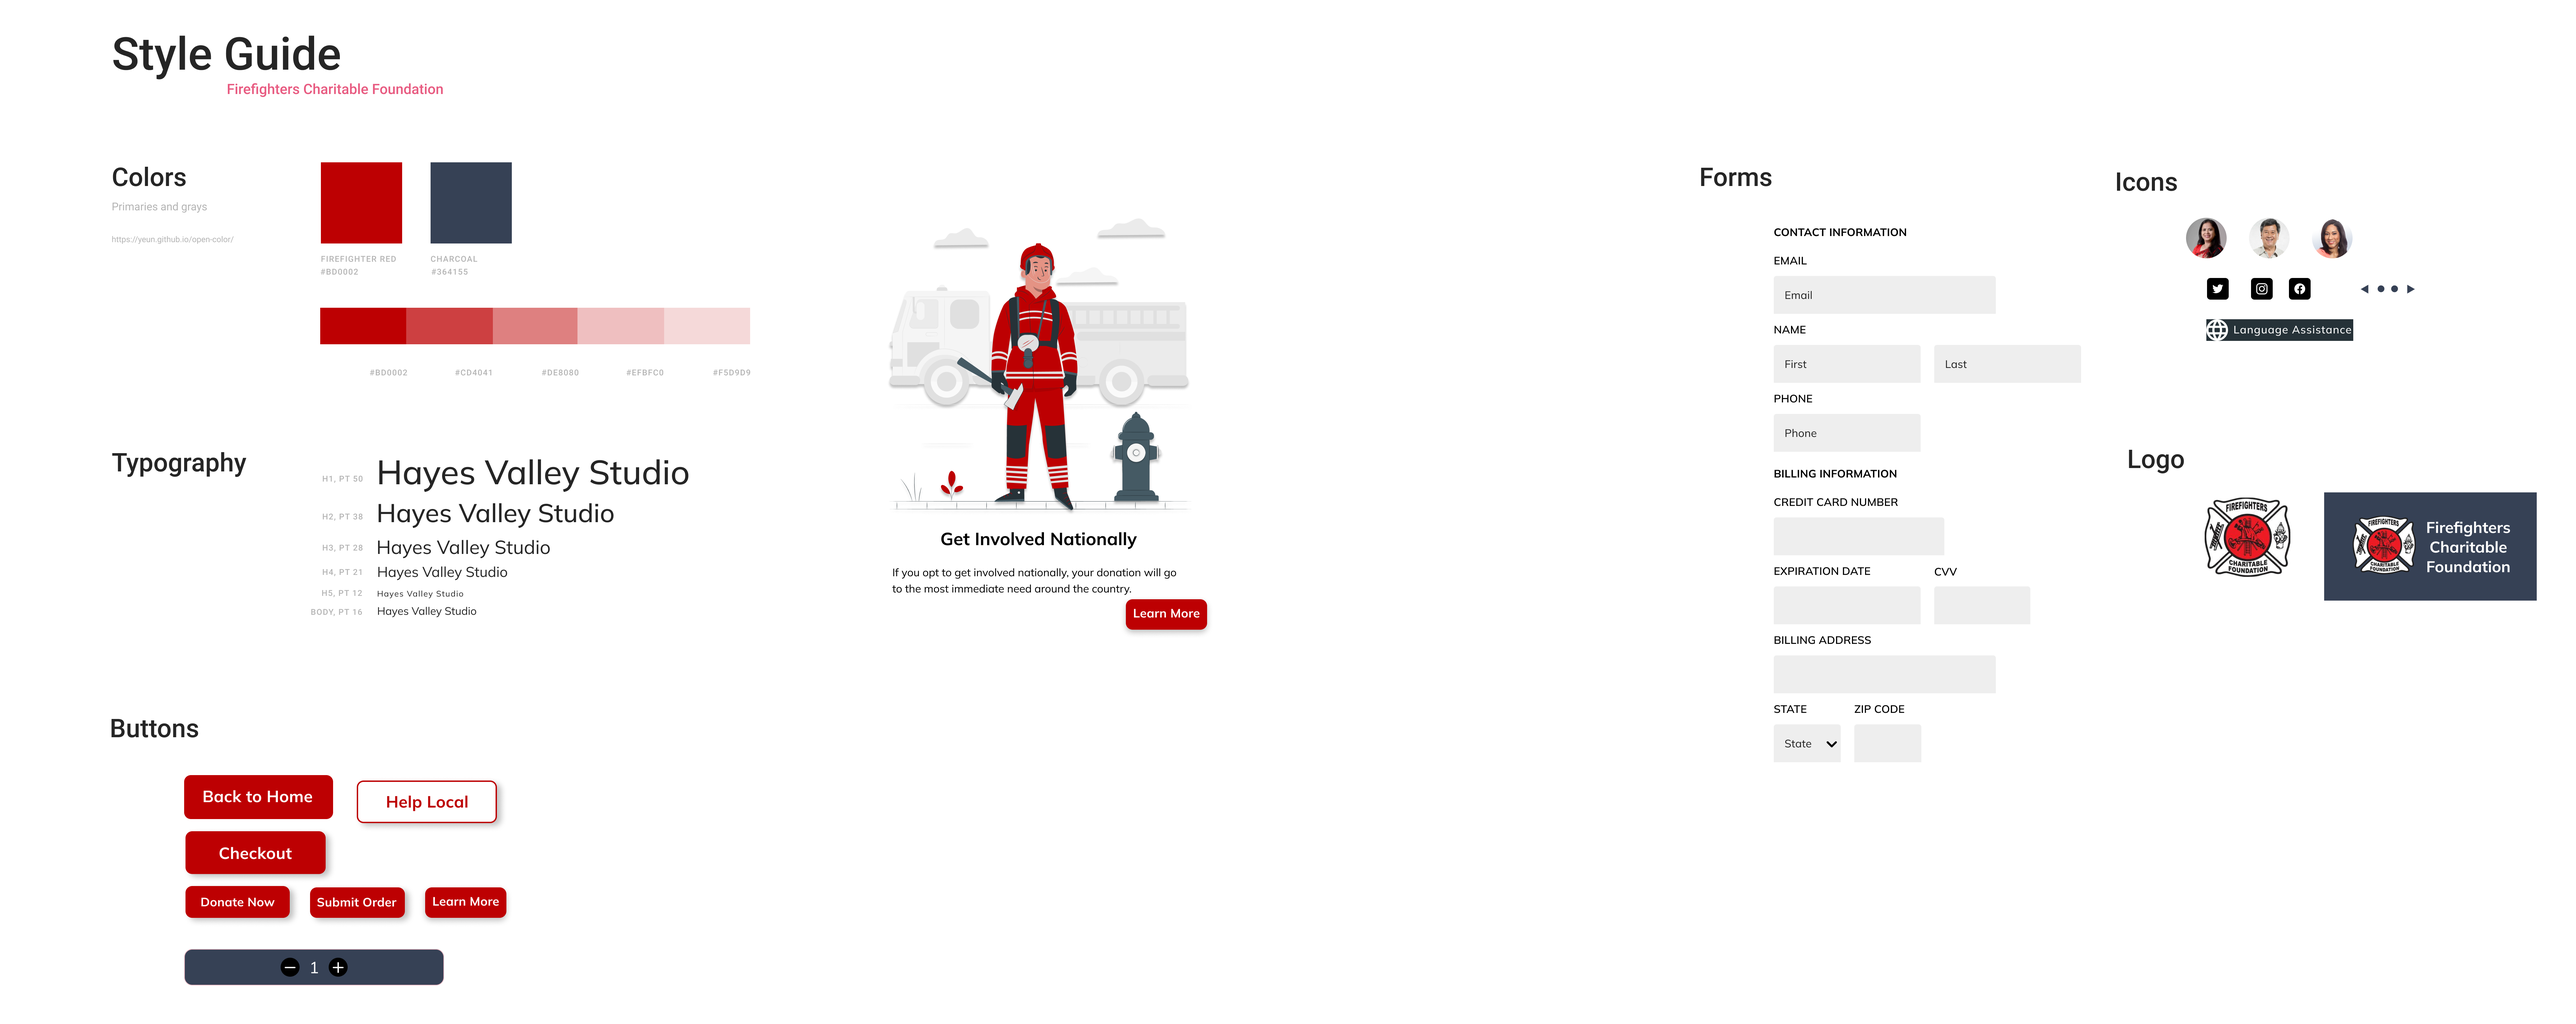
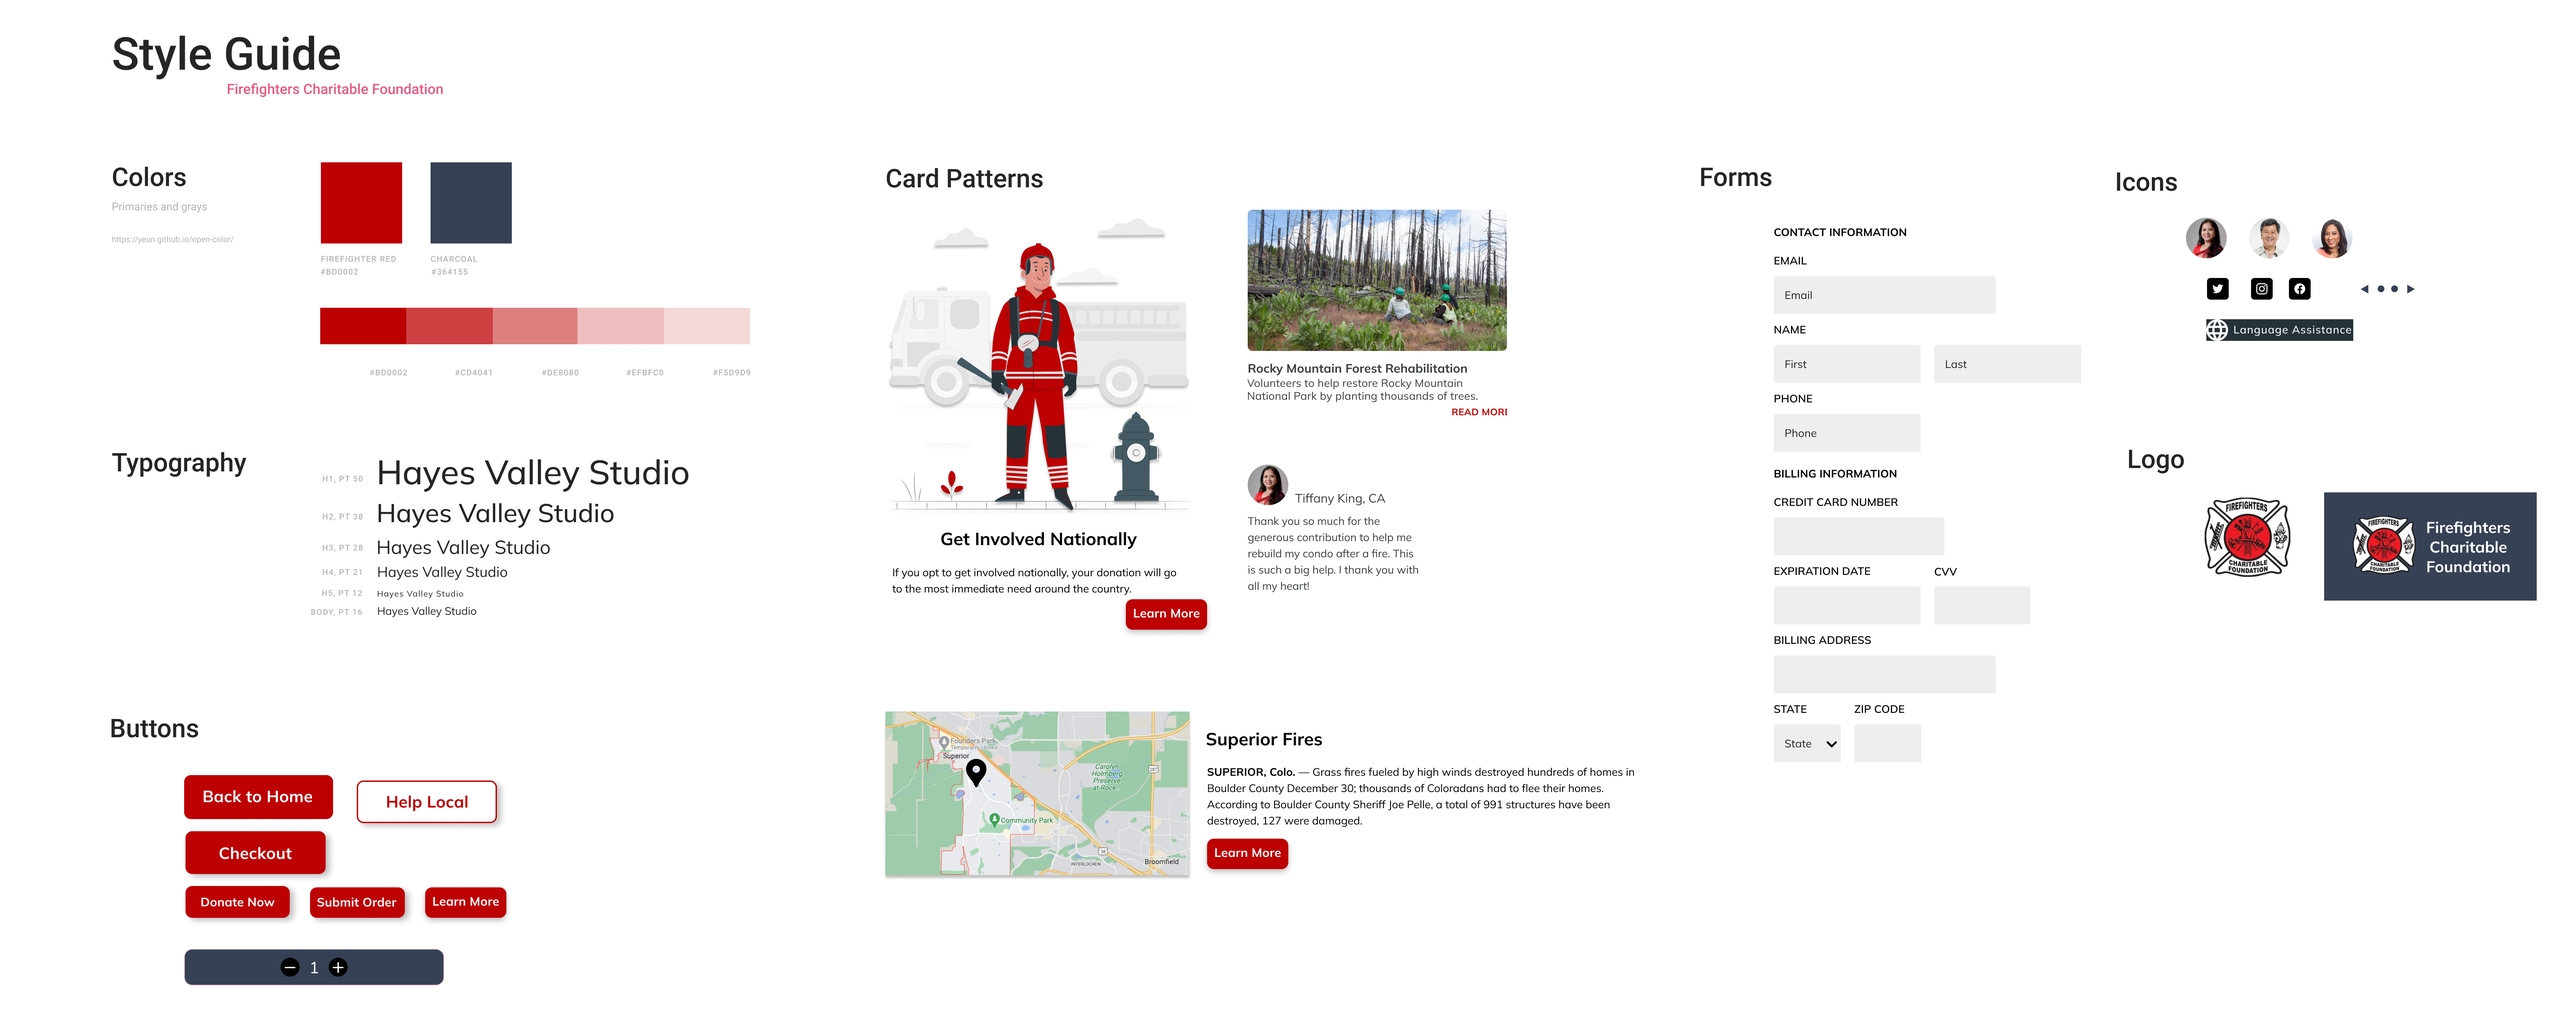
Completed HTML
Completed HTML with exception of photo scrolls

diff --git a/index.html b/index.html
@@ -5,7 +5,7 @@
     <title>UX/UI Homework 20</title>
     <link rel="stylesheet" href="https://cdn.jsdelivr.net/npm/bootstrap@4.6.1/dist/css/bootstrap.min.css"
         integrity="sha384-zCbKRCUGaJDkqS1kPbPd7TveP5iyJE0EjAuZQTgFLD2ylzuqKfdKlfG/eSrtxUkn" crossorigin="anonymous">
-    <link rel="stylesheet" href="css/style.css" </head>
+    <link rel="stylesheet" href="css/style.css"></head>
 
 <body>
     <!--Navigation Bar-->
@@ -175,33 +175,81 @@
         <div class="container-fluid #BFB1C4">
             <div class="row">
                 <div class="col">
+                    <h5>Information Architecturue</h5>
                     <h4>User Flow</h4>
                     <p>To better understand how we would construct the core experience for the Firefighter Charitable
-                        Foundation, I designed a user flow. <b>The user flow helped my team focus more on the experience and needs of
-                        the user and less so on the details that we would solidify later on.</b> It also allowed us
+                        Foundation, I designed a user flow. <b>The user flow helped my team focus more on the experience
+                            and needs of
+                            the user and less so on the details that we would solidify later on.</b> It also allowed us
                         to communicate the entries and exits more clearly so we would have a better understanding moving
-                        forward. For example, we identified that the only way to donate was to go through AmazonSmile, which
+                        forward. For example, we identified that the only way to donate was to go through AmazonSmile,
+                        which
                         took users away from the site.
                     </p>
                     <img src="./Images/FFCF - Team FIRE@2x (1).png" class="img-fluid" alt="userFlow">
                 </div>
             </div>
-            <div class= "row">
+            <div class="row">
                 <div class="col">
-                <h4>Card Sorting to Site Map</h4>  
-                <p>Unpopular opinion, I love to card sort. In card sorting, we found that the only way to digitally donate to the Firefighters Charitable Foundation was by leaving the website and going to AmazonSmile. In our iterated site map, we priortized keeping users on the wesbite and creating two ways to donate within the site itself.</p>  
+                    <h4>Card Sorting to Site Map</h4>
+                    <p>Unpopular opinion, I love to card sort. In card sorting, we found that the only way to digitally
+                        donate to the Firefighters Charitable Foundation was by leaving the website and going to
+                        AmazonSmile. In our iterated site map, we priortized keeping users on the wesbite and creating
+                        two ways to donate within the site itself.</p>
                 </div>
                 <marquee behavior="scroll" direction="left">
                     <img src="./Images/Card Sorting - 1.png" height="500px" width="450px" alt="cardSort">
                     <img src="./Images/FFCF Site Map.png" height="500px" width="450px" alt="siteMap">
-                 </marquee>
+                </marquee>
             </div>
         </div>
         <!--Design-->
         <div class="container-fluid">
             <div class="row>">
                 <div class="col">
-                    
+                    <h5>Design</h5>
+                    <h4>Style Guide</h4>
+                    <p>Heading into our style guide, we wanted to evoke feelings of dependability. We opted for a
+                        classic firefighter red and a charcoal color for our color palette to stick true to our
+                        firefighter roots.</p>
+
+                    <p>After some research, we decided to do a mix of illustrations and pictures to convey our story
+                        better and help the user engage with the material in a more constructive way.</p>
+                    <img src="./Images/Abigail - FFCF Style Guide (1).png" class="img-fluid" alt="styleGuide">
+                    <h4>Wireframes to Mid-Fidelity</h4>
+                    <p>One of our biggest challenges while wireframing and prototyping was taking a national
+                        organization giving users the opportunity to connect locally. As we moved through low and
+                        mid-fidelity, we continually asked ourselves, does this reflect the data we've collected?
+                        The two biggest things we learned from prototyping were keeping it simple and consistent.</p>
+                    <h4>User Testing</h4>
+                    <p>When we conducted our user tests, we received constructive feedback about a lack of consistency
+                        with button size and drop shadow as well as comments on our color palette. We also received
+                        positive feedback on our Thank You page and the simplicity of the user flow.</p>
+
+                    <p><b>We tested often, failed often, and kept going.</b></p>
+
+                    <p>Our key insights from our low and mid-fidelity prototypes were that users wanted a simple and
+                        easy way to “Get Involved” with their community, especially as fire-disaster becomes a more
+                        prevalent issue.</p>
+                    <!--Scroll of Desktop & Mobile Low, Mid & High-->
+                </div>
+            </div>
+        </div>
+        <!--Conclusion & Next Steps Lilac-->
+        <div class="container-fluid">
+            <div class="row">
+                <div class="col">
+                    <h5>Takeaways and Next Steps</h5>
+                    <p><b>We went from user research to defining and ideating, from wireframes to mid-fi to a heavily
+                        iterated high-fi within our three-week time frame.</b></p>
+
+                    <p>For most of us, this was our first time working with each other, and we needed to learn each
+                        other's communication, working, and design styles quickly to find a clear path forward. This
+                        project was a lesson in collaboration and really highlighted that everyone has something to
+                        bring to the table. It was good practice for the real world!</p>
+
+                    <p>For our next steps, I would like to build out mobile to ensure a consistent experience from
+                        desktop to mobile.</p>
                 </div>
             </div>
         </div>
